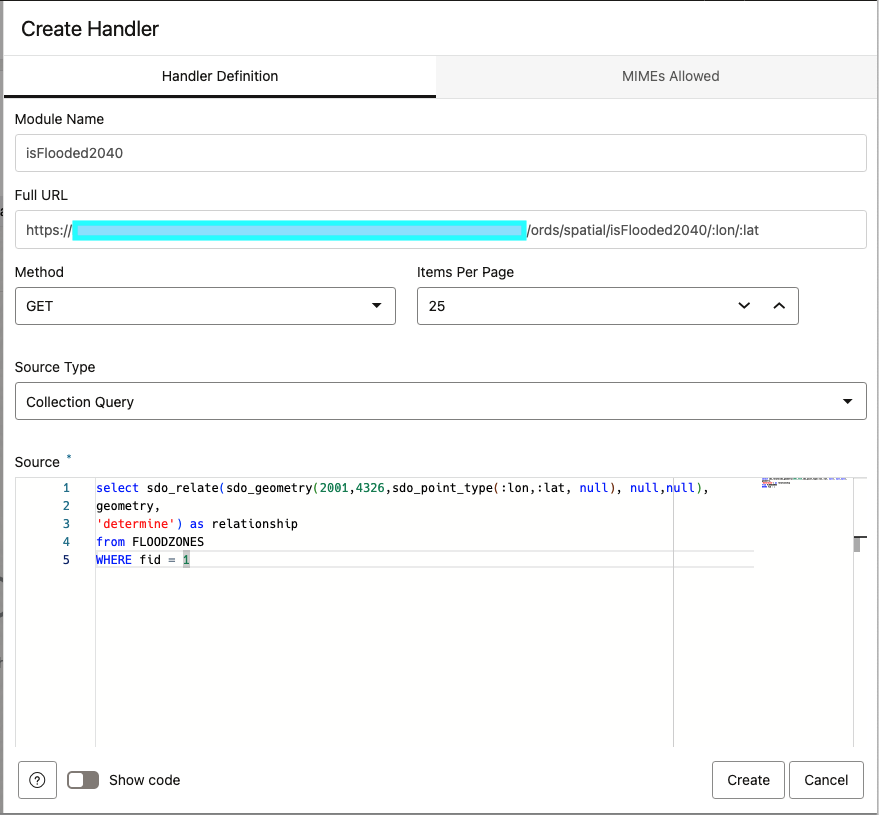
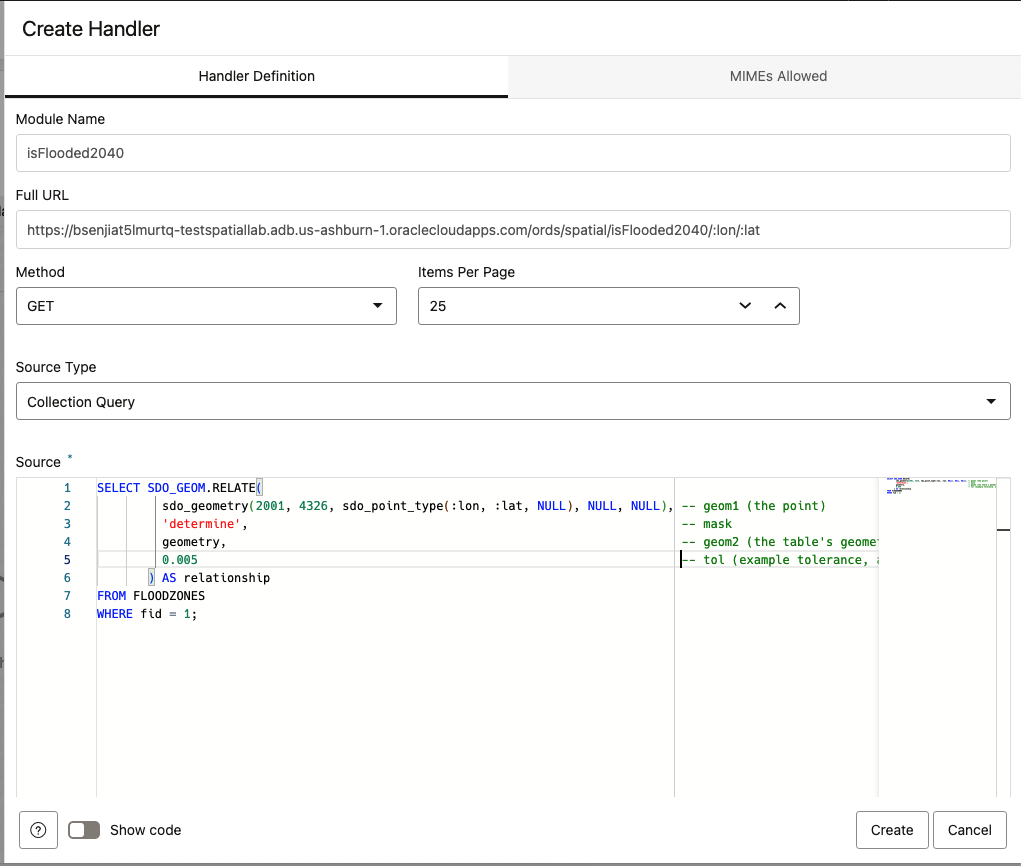
fix isFloodedSQL (#462)

diff --git a/dev-guide-ai-finance/spatial/spatial.md b/dev-guide-ai-finance/spatial/spatial.md
@@ -223,14 +223,17 @@ Create the Handler
 * Source Type is Collection Query
 * Source is the query to run
 
-This query computes the spatial relationship between a point (with longitude :lon and latitude :lat) and the geometry of the feature in the FLOODZONES table where fid = 1. It uses the SDO_RElate function with the 'determine' mask to return the type of spatial relationship (e.g., contains, overlaps) between the point and the specified flood zone geometry. The result is returned as relationship.
+This query computes the spatial relationship between a point (with longitude :lon and latitude :lat) and the geometry of the feature in the FLOODZONES table where fid = 1. It uses the SDO_GEOM.RELATE function with the 'determine' mask to return the type of spatial relationship (e.g., contains, overlaps) between the point and the specified flood zone geometry. The result is returned as relationship.
 
 ```
-select sdo_relate(sdo_geometry(2001,4326,sdo_point_type(:lon,:lat, null), null,null),
-geometry,
-'determine') as relationship
-from FLOODZONES
-WHERE fid = 1
+SELECT SDO_GEOM.RELATE(
+         sdo_geometry(2001, 4326, sdo_point_type(:lon, :lat, NULL), NULL, NULL), -- geom1 (the point)
+         'determine',                                                            -- mask
+         geometry,                                                               -- geom2 (the table's geometry)
+         0.005                                                                   -- tol (example tolerance, adjust as needed)
+       ) AS relationship
+FROM FLOODZONES
+WHERE fid = 1;
 ```
 
 To Test, use the following coordinates
